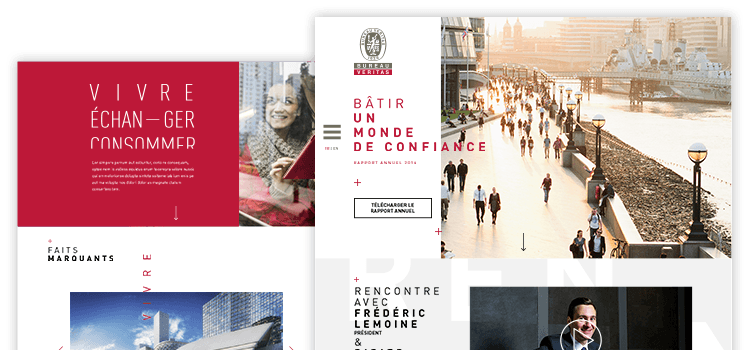
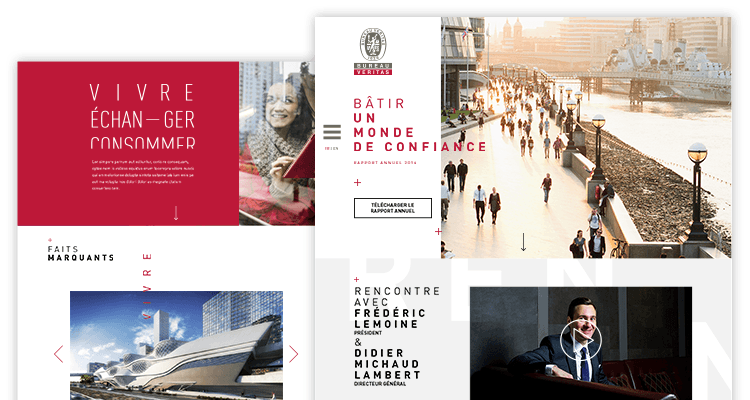
changed all images and setup for responsive in both home page and project pages

diff --git a/layouts/project/single.html b/layouts/project/single.html
@@ -17,16 +17,8 @@
 									/images/{{ .Slug }}/{{ .Slug }}-mobile.png 800w" media="(max-width: 768px)">
 					<source srcset="/images/{{ .Slug }}/{{ .Slug }}-desktop-sm.png 1000w,
 									/images/{{ .Slug }}/{{ .Slug }}-desktop.png 2000w" media="(min-width: 769px)">
-					<img src="/images/{{ .Params.display.mobile }}-sm.png" alt="{{ .Slug }}">
+					<img src="/images/{{ .Params.gradient.mobile }}-sm.png" alt="{{ .Slug }}">
 				</picture>
-				<!-- <figure>
-					<img
-						srcset="./images/{{ .Params.display.mobile }}-sm.png 350w,
-								./images/{{ .Params.display.mobile}}.png 700w,
-								./images/{{ .Params.display.desktop }}-sm.png 800w,
-								./images/{{ .Params.display.desktop }}.png 1500w"
-					alt="">
-				</figure> -->
 			</div>
 		</header>
 		<section>
@@ -47,12 +39,12 @@
 		<footer>
 		 {{ if .IsPage }}
 			{{ if .PrevInSection }}
-				<a href="{{ .PrevInSection.Permalink }}" style="background-image:/* url('./images/{{ .PrevInSection.Params.display.desktop }}'), */ linear-gradient(90deg, {{ .PrevInSection.Params.display.color1 }}, {{ .PrevInSection.Params.display.color2 }});">
+				<a href="{{ .PrevInSection.Permalink }}" style="background-image:/* url('./images/{{ .PrevInSection.Params.gradient.desktop }}'), */ linear-gradient(90deg, {{ .PrevInSection.Params.gradient.color1 }}, {{ .PrevInSection.Params.gradient.color2 }});">
 					<h5><small>Previous<br></small> {{ .PrevInSection.Title }}</h5>
 				</a>
 			{{ end }}
 			{{ if .NextInSection }}
-				<a href="{{ .NextInSection.Permalink }}" style="background-image:/* url('./images/{{ .NextInSection.Params.display.desktop }}'),*/ linear-gradient(90deg, {{ .NextInSection.Params.display.color1 }}, {{ .NextInSection.Params.display.color2 }});">
+				<a href="{{ .NextInSection.Permalink }}" style="background-image:/* url('./images/{{ .NextInSection.Params.gradient.desktop }}'),*/ linear-gradient(90deg, {{ .NextInSection.Params.gradient.color1 }}, {{ .NextInSection.Params.gradient.color2 }});">
 					<h5><small>Next<br></small>{{ .NextInSection.Title }}</h5>
 				</a>
 			{{ end }}

diff --git a/layouts/project/li.html b/layouts/project/li.html
@@ -1,11 +1,11 @@
 	<article>
-		<figure style="background: linear-gradient(75deg, {{ .Params.display.color1 }}, {{ .Params.display.color2 }});" class="hidden-sm-down">
-			<img src="images/{{ .Params.display.desktop }}" alt="{{ .Title }} - illustration">
+		<figure style="background: linear-gradient(75deg, {{ .Params.gradient.color1 }}, {{ .Params.gradient.color2 }});" class="hidden-sm-down">
+			<img src="images/{{ .Slug }}/{{ .Slug }}-desktop-sm.png" alt="{{ .Title }} - illustration">
 		</figure>
 
 		<a href="{{ .RelPermalink }}" class="hidden-md-up">
-			<figure style="background: linear-gradient(75deg, {{ .Params.display.color1 }}, {{ .Params.display.color2 }});">
-				<img src="images/{{ .Params.display.mobile }}" alt="{{ .Title }} - illustration">
+			<figure style="background: linear-gradient(75deg, {{ .Params.gradient.color1 }}, {{ .Params.gradient.color2 }});">
+				<img src="images/{{ .Slug }}/{{ .Slug }}-desktop-sm.png" alt="{{ .Title }} - illustration">
 			</figure>
 		</a>
 

diff --git a/layouts/partials/nav.partial.html b/layouts/partials/nav.partial.html
@@ -11,7 +11,7 @@
 		{{ $currentPage := . }}
 		{{ range $i, $page := where .Site.Pages "Type" "project" }}
 			<li style="transition-delay: {{ mul $i 0.1 | add 0.2 | safeCSS }}s">
-				<a href="{{ .RelPermalink }}" class="{{ if eq $currentPage.Title .Title }}active{{ end }}">
+				<a href="{{ .Permalink }}" class="{{ if eq $currentPage.Title .Title }}active{{ end }}">
 					{{ .Title }}
 				</a>
 			</li>

diff --git a/assets/sass/_projects.scss b/assets/sass/_projects.scss
@@ -113,6 +113,7 @@
 
 		figure {
 			margin-bottom: 0;
+			padding: $spacer $spacer-sm 0;
 
 			@include media-breakpoint-up(md) {
 				position: absolute;
@@ -123,6 +124,7 @@
 				top: 0;
 				bottom: 0;
 				overflow: hidden;
+				padding: 0;
 			}
 
 			img {

diff --git a/assets/sass/_project-single.scss b/assets/sass/_project-single.scss
@@ -24,6 +24,10 @@
 			margin-bottom: $spacer-lg;
 		}
 
+		h1 {
+			hyphens: auto;
+		}
+
 		figure, picture {
 			margin: 0;
 			width: 100%;

diff --git a/content/project/descendance.md b/content/project/descendance.md
@@ -5,11 +5,10 @@ year = "2013"
 category = "Web & Mobile"
 role = "Art Direction & Conception"
 client = "Graduation project"
-[display]
-mobile = "descendance/descendance_mobile.png"
-desktop = "descendance/descendance_desktop.png" 
-color1 = "#ececec"
-color2 = "#ffffff"
+slug = "descendance"
+[gradient]
+color1 = "#66c7cf"
+color2 = "#386367"
 
 priority = 3
 +++

diff --git a/content/project/nouvelles_frontieres.md b/content/project/nouvelles_frontieres.md
@@ -6,9 +6,8 @@ year = "2013"
 category = "Web"
 role = "Art Direction"
 client = "Havas Worldwide"
-[display]
-mobile = "nouvelles_frontieres/NF_mobile.png"
-desktop = "nouvelles_frontieres/NF_mobile.png"
+slug = "nouvelles_frontieres"
+[gradient]
 color1 = "#480048"
 color2 = "#c04848"
 

diff --git a/content/project/tivoli.md b/content/project/tivoli.md
@@ -5,9 +5,8 @@ year = "2016"
 category = "Web"
 role = "Art Direction & Front-end development"
 client = "SEITOSEI"
-[display]
-mobile = "tivoli/tivoli_mobile.png"
-desktop = "tivoli/tivoli_mobile.png"
+slug = "tivoli"
+[gradient]
 color1 = "#3d7eaa"
 color2 = "#ffe47a"
 

diff --git a/content/project/officiis-properties.md b/content/project/officiis-properties.md
@@ -5,9 +5,8 @@ year = "2016"
 category = "Web"
 role = "Art Direction"
 client = "SEITOSEI"
-[display]
-mobile = "zublin/zublin_mobile.png"
-desktop = "zublin/zublin_mobile.png"
+slug = "officiis"
+[gradient]
 color1 = "#16a085"
 color2 = "#f4d03f"
 
